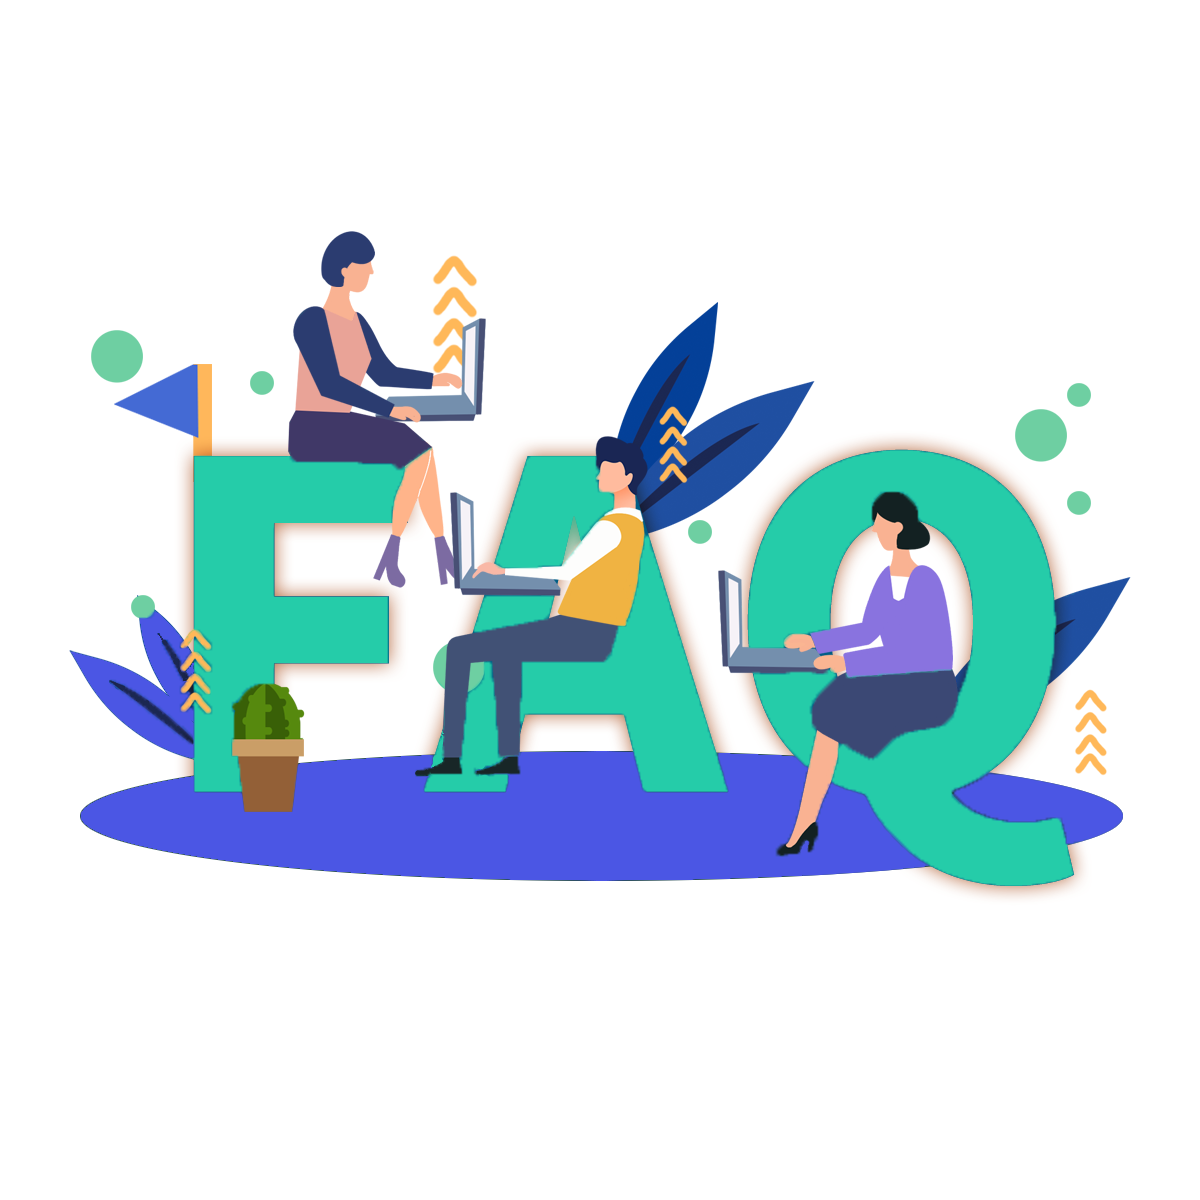
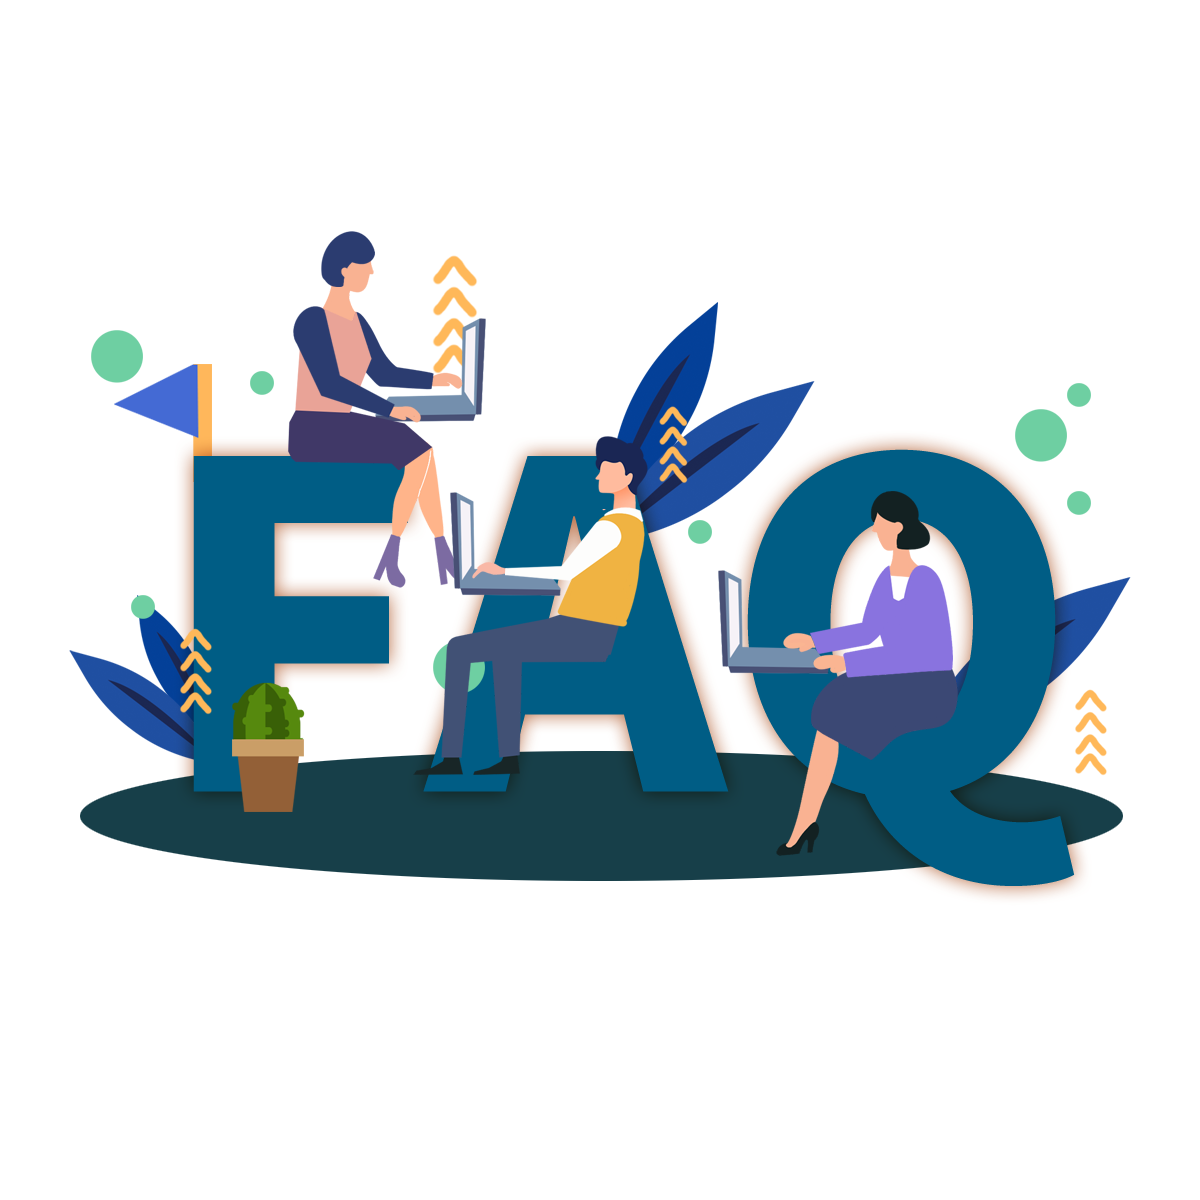
footer added

Changed region(s): [[0.0617, 0.37, 0.9558, 0.74]]

diff --git a/index.html b/index.html
@@ -312,7 +312,7 @@
 
                 <section class="group__list">
                     <p class="title">
-                        Explre <span>Groups</span> <span class="badge">15</span>
+                        Explore <span>Groups</span> <span class="badge">15</span>
                     </p>
                     <div class="swiper mySwiper">
                         <div class="swiper-wrapper">
@@ -723,39 +723,46 @@
                 <!-- FAQ section -->
                 <section class="FAQ">
                     <div class="faq__image">
-                        <img src="./images/faq.png" alt="">
+                        <img src="./images/faq2.png" alt="">
                     </div>
                     <div class="faq__content">
                         <p class="title">Frequently Asked Questions</p>
 
                         <div class="q__and__a">
-                            <p class="question"><span>What is JavaScript?</span><ion-icon name="chevron-down-outline" class="down"></ion-icon></p>
-                            <p class="answer">Lorem ipsum dolor sit amet consectetur, adipisicing elit. Voluptate, voluptates hic. Praesentium repudiandae sequi suscipit explicabo cum, veniam magni! Temporibus. Lorem ipsum dolor sit amet consectetur, adipisicing elit. Eius quidem libero quibusdam id soluta doloribus.</p>
+                            <p class="question"><span>WHAT DO WE DO WITH YOUR INFORMATION?</span><ion-icon name="chevron-down-outline" class="down"></ion-icon></p>
+                            <p class="answer">We collect the personal information you give us such as your name, address and email address. When you browse our site, we also automatically receive your computer&aps;s internet protocol (IP) address in order to provide us with information that helps us learn about your browser and operating system.</p>
                         </div>
 
                         <div class="q__and__a">
-                            <p class="question"><span>What is JavaScript?</span><ion-icon name="chevron-down-outline" class="down"></ion-icon></p>
-                            <p class="answer">Lorem ipsum dolor sit amet consectetur, adipisicing elit. Eius quidem libero quibusdam id soluta doloribus.</p>
+                            <p class="question"><span>How do you get my consent?</span><ion-icon name="chevron-down-outline" class="down"></ion-icon></p>
+                            <p class="answer">When you provide us with personal information to complete a transaction, verify your credit card, place an order, arrange for a delivery or return a purchase, we imply that you consent to our collecting it and using it for that specific reason only. If we ask for your personal information for a secondary reason, like marketing, we will either ask you directly for your expressed consent or provide you with an opportunity to say no.</p>
                         </div>
 
                         <div class="q__and__a">
-                            <p class="question"><span>What is JavaScript?</span><ion-icon name="chevron-down-outline" class="down"></ion-icon></p>
-                            <p class="answer">Lorem ipsum dolor sit amet consectetur, adipisicing elit. Eius quidem libero quibusdam id soluta doloribus.</p>
+                            <p class="question"><span>DISCLOSURE</span><ion-icon name="chevron-down-outline" class="down"></ion-icon></p>
+                            <p class="answer">We may disclose your personal information if we are required by law to do so or if you violate our Terms of Service.</p>
                         </div>
 
                         <div class="q__and__a">
-                            <p class="question"><span>What is JavaScript?</span><ion-icon name="chevron-down-outline" class="down"></ion-icon></p>
-                            <p class="answer">Lorem ipsum dolor sit amet consectetur, adipisicing elit. Eius quidem libero quibusdam id soluta doloribus.</p>
+                            <p class="question"><span>SECURITY</span><ion-icon name="chevron-down-outline" class="down"></ion-icon></p>
+                            <p class="answer">To protect your personal information, we take reasonable precautions and follow industry best practices to make sure it is not inappropriately lost, misused, accessed, disclosed, altered or destroyed.</p>
                         </div>
 
                         <div class="q__and__a">
-                            <p class="question"><span>What is JavaScript?</span><ion-icon name="chevron-down-outline" class="down"></ion-icon></p>
-                            <p class="answer">Lorem ipsum dolor sit amet consectetur, adipisicing elit. Eius quidem libero quibusdam id soluta doloribus.</p>
+                            <p class="question"><span>THIRD-PARTY SERVICES</span><ion-icon name="chevron-down-outline" class="down"></ion-icon></p>
+                            <p class="answer">In general, the third-party providers used by us will only collect, use and disclose your information to the extent necessary to allow them to perform the services they provide to us. However, certain third-party service providers, such as payment gateways and other payment transaction processors, have their own privacy policies with respect to the information we are required to provide to them for your purchase-related transactions. For these providers, we recommend that you read their privacy policies so you can understand the manner in which your personal information will be handled by these providers. In particular, remember that certain providers may be located in or have facilities that are located in a different jurisdiction than either you or us. So if you elect to proceed with a transaction that involves the services of a third-party service provider, then your information may become subject to the laws of the jurisdiction(s) in which that service provider or its facilities are located. Once you leave our store's website or are redirected to a third-party website or application, you are no longer governed by this Privacy Policy or our website's Terms of Service. Links When you click on links on our store, they may direct you away from our site. We are not responsible for the privacy practices of other sites and encourage you to read their privacy statements.</p>
                         </div>
                     </div>
 
 
                 </section>
+
+
+                <!-- Footer section -->
+                <footer>
+                   <div class="footer__logo"><img src="./images/logo.png" alt=""> Coder<span>Community.io</span></div>
+                   <div class="footer__links"><a href="#">Terms and Conditions</a> | <a href="#">Privacy Policy</a></div>
+                </footer>
 
 
             </section>

diff --git a/css/style.css b/css/style.css
@@ -909,7 +909,6 @@ ul.side__navbar a li ion-icon {
 }
 
 .group__list p.title {
-    text-align: center;
     gap: 2em;
     margin-block: 1em;
     font-family: var(--roboto);
@@ -936,6 +935,7 @@ p.title span.badge {
     width: 100%;
     height: 100%;
     position: relative;
+    overflow: visible;
 }
 
 .swiper-slide {
@@ -957,6 +957,8 @@ p.title span.badge {
     align-items: center;
 }
 
+
+
 .swiper-slide .card {
 
     background: rgba(255, 255, 255, .5);
@@ -967,7 +969,7 @@ p.title span.badge {
 }
 
 .swiper-container {
-    overflow: hidden;
+    /* overflow: hidden; */
     width: 100%;
     height: 300px;
     margin: 20px auto;
@@ -992,6 +994,7 @@ p.title span.badge {
     color: var(--primary);
     font-size: .8em;
     text-align: left;
+    min-height: 38px;
 }
 
 .swiper-slide .card__content p.desc {
@@ -1042,8 +1045,8 @@ p.title span.badge {
 {
     position: absolute;
     top: 50%;
-    right: 2%;
-    transform: translate(-50%,-5%);
+    right: 0%;
+    transform: translate(-50%,-0%);
     background: var(--primary);
     color: var(--white);
     padding: 10px;
@@ -1059,7 +1062,7 @@ p.title span.badge {
 {  
     position: absolute;
     top: 50%;
-    left: 10%;
+    left: 4%;
     transform: translate(-50%,-5%);
     padding: 10px;
     background: var(--secondary);
@@ -1069,7 +1072,7 @@ p.title span.badge {
     place-items: center;
     cursor: pointer;
     border-radius: 50%;
-    z-index: 5;
+    z-index: 1;
 }
 
 @media screen and (max-width:700px) {
@@ -1180,12 +1183,27 @@ p.title span.badge {
     cursor: pointer;
     border-radius: 50%;
     z-index: 1;
+
+}
+
+.next_btn:hover
+{
+    animation: arrow__animate1 1s  ease-in-out infinite;
+}
+
+@keyframes arrow__animate1 {
+    100%,0%
+    {
+        right:10%;
+    }50%{
+        right:11%;
+    }
 }
 
 .prev_btn {
     position: absolute;
     top: 80%;
-    left: 80%;
+    left: 75%;
     padding: 10px;
     background:var(--secondary);
     opacity: .8;
@@ -1196,6 +1214,18 @@ p.title span.badge {
     cursor: pointer;
     border-radius: 50%;
     z-index: 3;
+}
+.prev_btn:hover 
+{
+    animation: arrow__animate2 1s  ease-in-out infinite;
+}
+@keyframes arrow__animate2 {
+    100%,0%
+    {
+        left:75%;
+    }50%{
+        left:76%;
+    }
 }
 
 
@@ -1312,6 +1342,7 @@ p.title span.badge {
     max-height: 0px;
     overflow: hidden;
     transition: max-height 1.2s ease;
+    text-align: justify;
 }
 
 .q__and__a.active .answer
@@ -1338,6 +1369,9 @@ p.title span.badge {
 }
 
 @media screen and (max-width:700px){
+   
+    
+    
     .FAQ .faq__content .title
     {
         font-size: 1.8em;
@@ -1345,5 +1379,49 @@ p.title span.badge {
     .faq__image img
     {
         width: 70%;
+        margin-bottom: 2em;
     }
+}
+
+/* footer */
+
+footer
+{
+    margin-top: 7%;
+    display: flex;
+    flex-direction: column;
+    align-items: center;
+    justify-content: center;
+    background: rgba(255, 255, 255, .2);
+    border-top: 2px solid var(--border);
+    padding: 2em;
+}
+
+footer .footer__logo
+{
+    display: flex;
+    align-items: center;
+    justify-content: center;
+    font-family: var(--inter);
+    font-size: 1em;
+    font-weight: 600;
+    color: var(--primary);
+}
+
+.footer__logo img
+{
+    width: 25px;
+    margin-right: 5px;
+}
+
+.footer__links
+{
+    margin-top: 1em;
+}
+
+.footer__links a
+{
+    color: var(--dark);
+    font-size: 1em;
+    font-family: var(--roboto);
 }

diff --git a/main.js b/main.js
@@ -157,14 +157,14 @@ var swiper = new Swiper(".mySwiper2", {
 
 let QAN = document.querySelectorAll(".q__and__a");
 QAN.forEach(Element=>{
+        
+    // given line close the all collaps
     Element.addEventListener("click", ()=>{
         Element.classList.toggle("active");
         let Icon_arraow=Element.querySelector(".down");
 
 
-        setTimeout(()=>{
-            // given line change icon of q&a <section></section>
-            Icon_arraow.getAttribute("name")=="chevron-down-outline" ? Icon_arraow.setAttribute("name","close") : Icon_arraow.setAttribute("name","chevron-down-outline");
-        },600)
+        // given line change icon of q&a <section></section>
+        Icon_arraow.getAttribute("name")=="chevron-down-outline" ? Icon_arraow.setAttribute("name","close") : Icon_arraow.setAttribute("name","chevron-down-outline");
     })
 })
